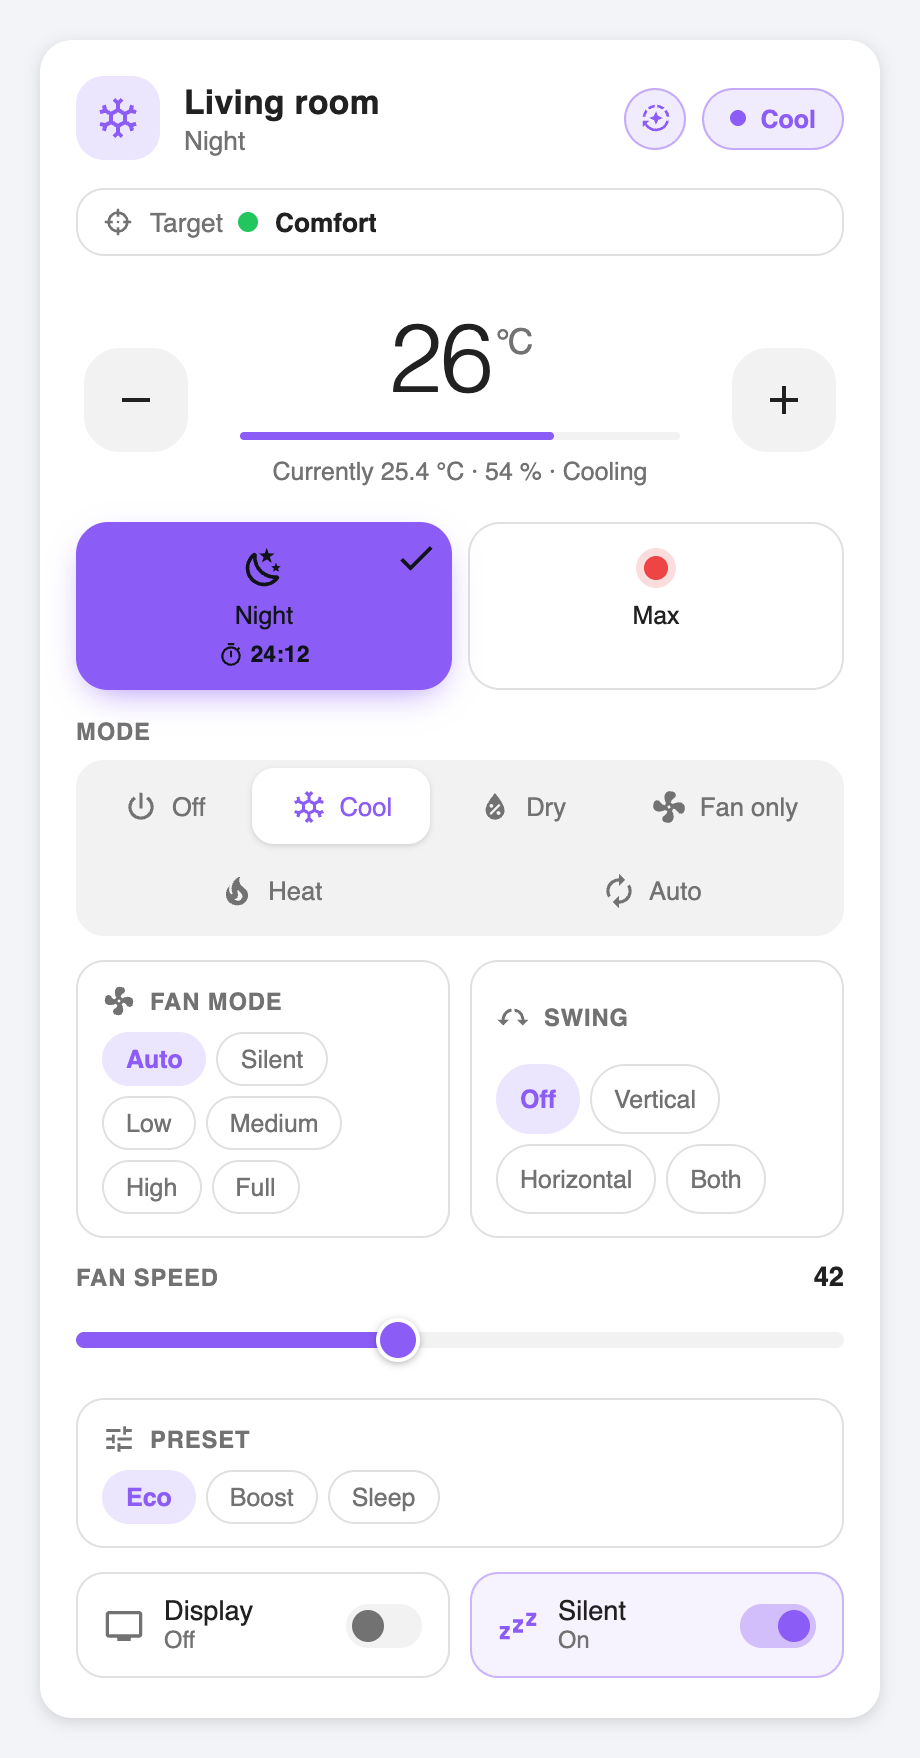
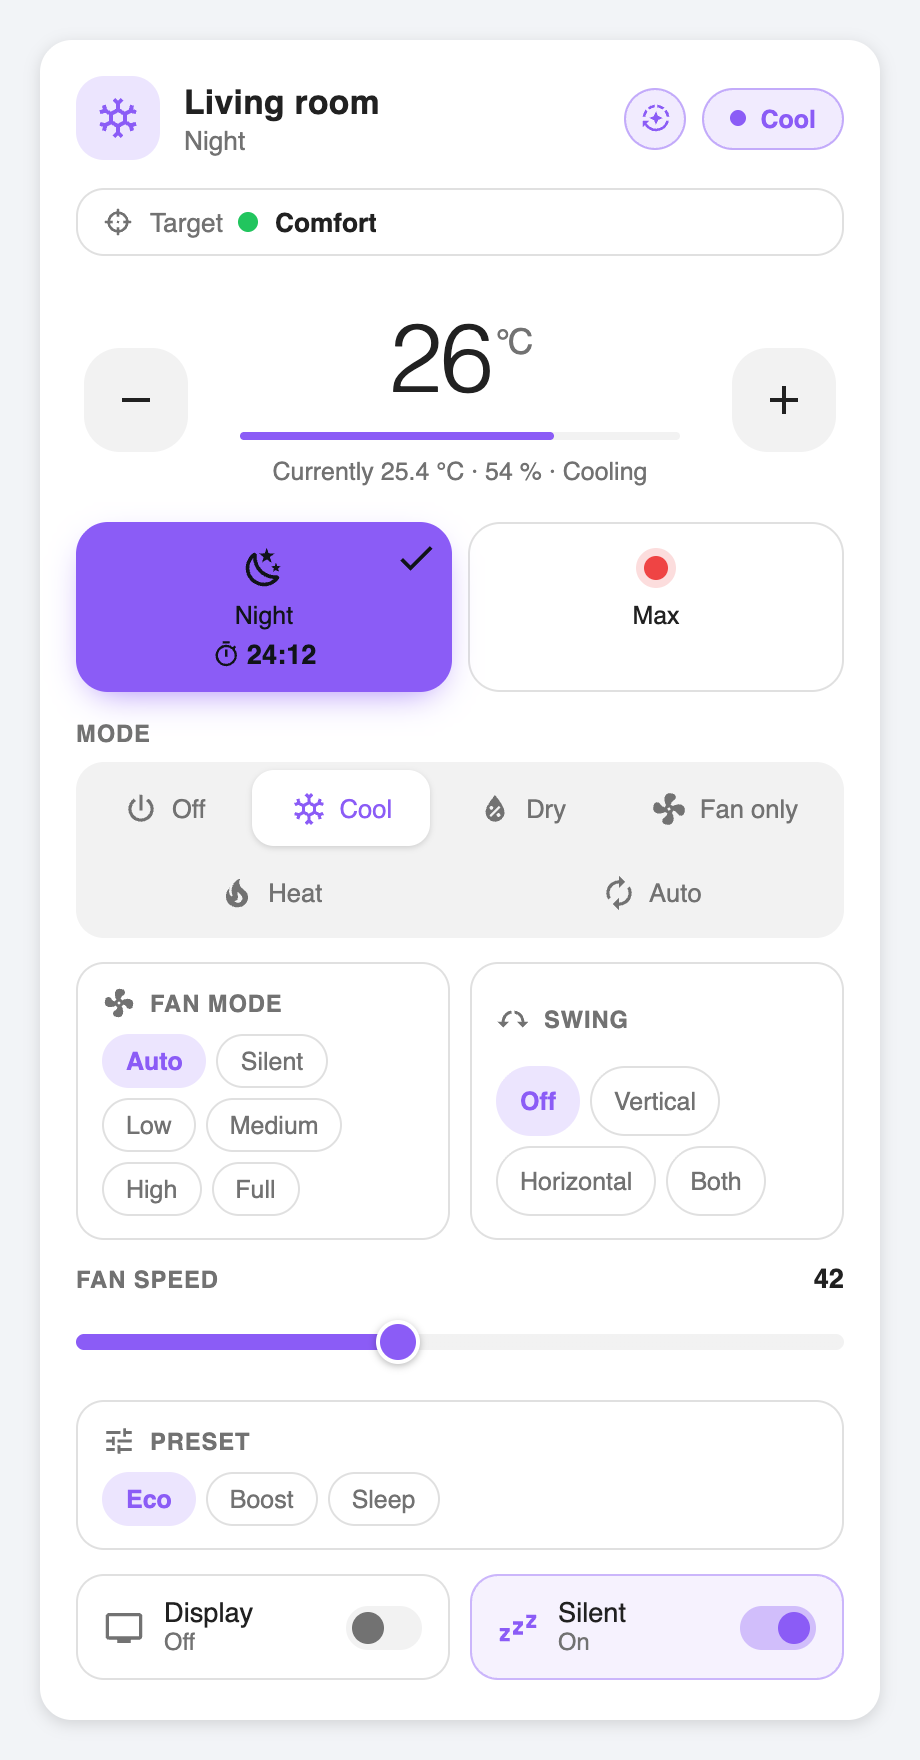
Hold a write protected profile under automatic mode
With automatic mode on, a change by hand to a write protected profile could only turn the state custom, which is what protection is there to prevent - and on a card that offers one button, the countdown was too small to read. set_value is now refused while automatic mode holds such a profile and the card turns display only, leaving temporary profiles, automatic mode and the lock as the ways out. The countdown is sized by the width of its own button.

diff --git a/custom_components/climate_profiles/frontend/climate-profile-card.js b/custom_components/climate_profiles/frontend/climate-profile-card.js
@@ -282,6 +282,17 @@ class ClimateProfileCard extends HTMLElement {
       automatic,
       autoOn: Boolean(automatic && automatic.status !== "off"),
       running,
+      // Automatic mode holds a write protected profile: nothing on the card
+      // may change it - the integration refuses it as well. Only temporary
+      // profiles, automatic mode itself and the lock stay usable.
+      frozen: Boolean(
+        automatic &&
+          automatic.status !== "off" &&
+          (attrs.profiles || []).some(
+            (profile) =>
+              profile.id === (attrs.active_profile_id || CUSTOM_ID) && profile.protected
+          )
+      ),
       applying: Boolean(attrs.applying) || this._busy > 0,
       hvacMode: climate ? climate.state : null,
       hvacModes: caps.hvac_modes || [],
@@ -1034,6 +1045,15 @@ class ClimateProfileCard extends HTMLElement {
       model.profiles.find((profile) => profile.id === model.activeId) || model.custom;
 
     el.card.classList.toggle("unavailable", model.unavailable);
+    el.card.classList.toggle("frozen", model.frozen);
+    // What cannot be changed right now: the device is away, or automatic
+    // mode holds a write protected profile.
+    const locked = model.unavailable || model.frozen;
+    const why = model.frozen
+      ? this._t("Write protected, and held by automatic mode.")
+      : "";
+    el.temp.title = why;
+    el.controls.title = why;
     el.card.style.setProperty("--accent-color", activeProfile.color);
     const [r, g, b] = hexToRgb(activeProfile.color);
     el.card.style.setProperty("--accent-rgb", `${r}, ${g}, ${b}`);
@@ -1058,7 +1078,7 @@ class ClimateProfileCard extends HTMLElement {
         )
       : this._t("Off");
     el.pill.title = on ? this._t("Turn off") : this._t("Turn on");
-    el.pill.disabled = model.unavailable || !model.hvacModes.includes("off");
+    el.pill.disabled = locked || !model.hvacModes.includes("off");
 
     // temperature
     const showTemp = this._visible("temperature", isNum(model.target));
@@ -1099,7 +1119,7 @@ class ClimateProfileCard extends HTMLElement {
         setReading(el.ringHumidity, humidity);
       }
       this.shadowRoot.querySelectorAll(".step").forEach((button) => {
-        button.disabled = model.unavailable;
+        button.disabled = locked;
       });
     }
 
@@ -1129,9 +1149,9 @@ class ClimateProfileCard extends HTMLElement {
     }
 
     // controls
-    this._paintGroup("hvac_mode", model.hvacMode, model.unavailable);
-    this._paintGroup("fan_mode", model.fanMode, model.unavailable || !on);
-    this._paintGroup("swing_mode", model.swingMode, model.unavailable || !on);
+    this._paintGroup("hvac_mode", model.hvacMode, locked);
+    this._paintGroup("fan_mode", model.fanMode, locked || !on);
+    this._paintGroup("swing_mode", model.swingMode, locked || !on);
 
     for (const value of model.additional) {
       const control = this._controls[value.id];
@@ -1140,7 +1160,7 @@ class ClimateProfileCard extends HTMLElement {
       if (control.kind === "slider") {
         const number = isNum(shown) ? shown : Number(control.input.min);
         if (document.activeElement !== control.input) control.input.value = number;
-        control.input.disabled = model.unavailable;
+        control.input.disabled = locked;
         control.block.querySelector(".slider-value").textContent = formatNumber(
           Number(control.input.value),
           Number(control.input.step)
@@ -1148,9 +1168,9 @@ class ClimateProfileCard extends HTMLElement {
         control.input.setAttribute("aria-valuetext", `${control.input.value}`);
         this._paintSliderFill(control.input);
       } else if (control.kind === "toggle") {
-        this._paintToggle(value.id, shown, model.unavailable);
+        this._paintToggle(value.id, shown, locked);
       } else {
-        this._paintGroup(value.id, shown, model.unavailable);
+        this._paintGroup(value.id, shown, locked);
       }
     }
 
@@ -1392,7 +1412,10 @@ class ClimateProfileCard extends HTMLElement {
     el.arc.setAttribute("aria-valuemax", String(max));
     el.arc.setAttribute("aria-valuenow", String(model.target));
     el.arc.setAttribute("aria-valuetext", `${model.target} ${model.unit}`);
-    el.arc.setAttribute("aria-disabled", model.unavailable ? "true" : "false");
+    el.arc.setAttribute(
+      "aria-disabled",
+      model.unavailable || model.frozen ? "true" : "false"
+    );
   }
 
   /* ---- actions ---- */
@@ -1400,7 +1423,9 @@ class ClimateProfileCard extends HTMLElement {
   /** Where on the ring the pointer is, as a temperature. */
   _dialTo(event) {
     const model = this._model();
-    if (model.error || model.unavailable || !isNum(model.target)) return;
+    if (model.error || model.unavailable || model.frozen || !isNum(model.target)) {
+      return;
+    }
 
     const box = this._el.arc.getBoundingClientRect();
     const dx = event.clientX - (box.left + box.width / 2);
@@ -1428,7 +1453,7 @@ class ClimateProfileCard extends HTMLElement {
 
   _nudgeTemperature(direction) {
     const model = this._model();
-    if (model.error || !isNum(model.target)) return;
+    if (model.error || model.frozen || !isNum(model.target)) return;
     const step = isNum(model.caps.target_temp_step) ? model.caps.target_temp_step : 0.5;
     const min = isNum(model.caps.min_temp) ? model.caps.min_temp : 5;
     const max = isNum(model.caps.max_temp) ? model.caps.max_temp : 35;
@@ -1453,7 +1478,7 @@ class ClimateProfileCard extends HTMLElement {
 
   _togglePower() {
     const model = this._model();
-    if (model.error) return;
+    if (model.error || model.frozen) return;
     const off = model.hvacModes.includes("off") ? "off" : null;
     if (!off) return;
     if (model.hvacMode === "off") {
@@ -1503,6 +1528,8 @@ class ClimateProfileCard extends HTMLElement {
   }
 
   async _setValue(values) {
+    // Every control ends here; the disabled buttons are only what is seen.
+    if (this._model().frozen) return;
     for (const [key, value] of Object.entries(values)) {
       this._setPending(key, value);
     }
@@ -1636,6 +1663,8 @@ const CARD_DE = {
   Target: "Ziel",
   "Sensor unavailable": "Sensor nicht verfügbar",
   "Tap to end": "Tippen beendet",
+  "Write protected, and held by automatic mode.":
+    "Schreibgeschützt, und von der Automatik gehalten.",
 };
 
 /* -------------------------------------------------------------------------
@@ -2044,7 +2073,6 @@ ha-card.unavailable { opacity: 0.6; }
 .profile.icon-only .dot-mark { width: 14px; height: 14px; margin: 5px 0; }
 /* The time left sits below the icon, or beside it once the button is wide
    enough - measured on the button, not the screen. */
-.profile.icon-only { container-type: inline-size; }
 .icon-stack {
   display: flex;
   flex-direction: column;
@@ -2088,7 +2116,7 @@ ha-card.unavailable { opacity: 0.6; }
   gap: 4px;
   flex: none;
   color: var(--profile-color, var(--accent-color));
-  font-size: 0.85rem;
+  font-size: 0.95rem;
   font-weight: 600;
   font-variant-numeric: tabular-nums;
 }
@@ -2255,15 +2283,18 @@ ha-card.unavailable { opacity: 0.6; }
 
 /* the time a temporary profile has left */
 .profile-countdown[hidden] { display: none; }
+/* Every button measures itself, so the time left grows with the room it has:
+   small in a row of six, as large as the name allows on a button of its own. */
+.profile { container-type: inline-size; }
 .profile-countdown {
   display: inline-flex;
   align-items: center;
-  gap: 3px;
-  font-size: 0.72rem;
+  gap: 0.25em;
+  font-size: clamp(0.85rem, 8cqi, 1.3rem);
   font-weight: 600;
   font-variant-numeric: tabular-nums;
 }
-.profile .profile-countdown ha-icon { --mdc-icon-size: 13px; color: inherit; }
+.profile .profile-countdown ha-icon { --mdc-icon-size: 1.05em; color: inherit; }
 
 /* notices */
 /* A flex container, and "display" beats the "hidden" attribute. */
@@ -2473,6 +2504,7 @@ ha-card.unavailable { opacity: 0.6; }
 
 /* shared states */
 button:disabled { opacity: 0.45; cursor: not-allowed; }
+.slider:disabled { opacity: 0.45; cursor: not-allowed; }
 button:focus-visible,
 .slider:focus-visible {
   outline: 2px solid var(--accent-color);

diff --git a/tests/test_automatic.py b/tests/test_automatic.py
@@ -15,7 +15,7 @@ from custom_components.climate_profiles.const import (
 )
 
 from .conftest import open_step, set_device_state, settle
-from .test_integration import SELECT, SENSOR, setup_entry
+from .test_integration import PROFILES, SELECT, SENSOR, setup_entry
 
 PROFILE_SENSOR = "sensor.wanted_profile"
 SWITCH = "switch.living_room_automatic_mode"
@@ -341,3 +341,45 @@ async def test_the_options_set_and_clear_the_sensor(hass, entry_data):
     await settle(hass)
     assert CONF_PROFILE_SENSOR not in entry.options
     assert hass.states.get(SWITCH) is None
+
+
+# --- a write protected profile under automatic mode -------------------------
+
+
+async def test_a_protected_profile_held_by_it_cannot_be_changed(
+    hass, entry_data, calls
+):
+    """A change could only make it custom - which protection is there to stop."""
+    profiles = [dict(item) for item in PROFILES]
+    profiles[2] = {**profiles[2], "protected": True}
+    hass.states.async_set(PROFILE_SENSOR, "Kuehlung")
+    set_device_state(hass, temperature=22)
+    entry = await setup_entry(
+        hass,
+        entry_data,
+        profiles=profiles,
+        options={CONF_PROFILE_SENSOR: PROFILE_SENSOR},
+    )
+    await switch_on(hass, entry)
+    count = len(calls["set_temperature"])
+
+    with pytest.raises(ServiceValidationError) as err:
+        await hass.services.async_call(
+            DOMAIN,
+            "set_value",
+            {"entity_id": SENSOR, "temperature": 21},
+            blocking=True,
+        )
+    assert err.value.translation_key == "automatic_profile_protected"
+    assert len(calls["set_temperature"]) == count
+
+    # Off, it is a protected profile like any other: the change goes through
+    # and the state is custom.
+    await entry.runtime_data.async_set_automatic(False)
+    await hass.services.async_call(
+        DOMAIN,
+        "set_value",
+        {"entity_id": SENSOR, "temperature": 21},
+        blocking=True,
+    )
+    assert calls["set_temperature"][-1].data["temperature"] == 21

diff --git a/tests/test_card.py b/tests/test_card.py
@@ -930,3 +930,45 @@ async def test_the_editor_offers_automatic_mode(open_card):
         }"""
     )
     assert data["show_target"] is True, "on unless switched off"
+
+
+#: Automatic mode holds "Comfort+", which is write protected.
+FROZEN = {
+    "temperature": 22,
+    "active_profile": "Comfort+",
+    "active_profile_id": "p4",
+    "active_profile_color": "#10b981",
+    "automatic": {
+        **AUTOMATIC["automatic"],
+        "sensor_state": "Comfort+",
+        "target": "Comfort+",
+        "target_id": "p4",
+    },
+}
+
+
+async def test_a_protected_profile_held_by_automatic_mode_is_display_only(
+    open_card,
+):
+    page = await open_card(FROZEN, card={"show_protection": True})
+    card = page.locator("climate-profile-card")
+
+    for selector in (".step", ".pill", ".segmented button", ".slider", ".toggle"):
+        for control in await card.locator(selector).all():
+            assert await control.is_disabled(), selector
+    await card.locator(".step[data-step='up']").click(force=True)
+    await card.locator(".segmented button").first.click(force=True)
+    await page.wait_for_timeout(800)
+    assert await calls(page) == []
+
+    # What stays: starting a temporary profile, automatic mode, the lock.
+    assert await card.locator(".profile[data-id='p5']").is_enabled()
+    assert await card.locator(".lock").is_enabled()
+
+
+async def test_an_unprotected_profile_held_by_automatic_mode_can_be_changed(
+    open_card,
+):
+    page = await open_card(AUTOMATIC)
+    card = page.locator("climate-profile-card")
+    assert await card.locator(".step[data-step='up']").is_enabled()

diff --git a/custom_components/climate_profiles/coordinator.py b/custom_components/climate_profiles/coordinator.py
@@ -784,6 +784,17 @@ class ClimateProfilesCoordinator(DataUpdateCoordinator[ProfileState]):
         """Write individual values, then re-evaluate which profile that is."""
         if not values:
             return
+        active = self.data.active if self.data else None
+        if self._automatic and active is not None and active.protected:
+            # Automatic mode holds a profile that keeps changes out. A change
+            # here could only make the state custom, which is the one thing
+            # write protection under automatic mode is meant to prevent. The
+            # device's own buttons cannot be refused; they still lead there.
+            raise ServiceValidationError(
+                translation_domain=DOMAIN,
+                translation_key="automatic_profile_protected",
+                translation_placeholders={"profile": active.name},
+            )
         # Changing something by hand ends the question whether the profile
         # applied before took: from here on the state is yours, not the
         # device's answer. A change made on the device itself cannot be told

diff --git a/README.md b/README.md
@@ -280,7 +280,8 @@ temporary profile shows the time it has left: under its name in the grid and
 scroll layouts, next to the icon in `icons` - below it when the button is
 narrow - and in the closed field in `dropdown`. A tap on it ends it; in
 `dropdown` the tap ends it instead of opening the list. Starting another one
-replaces it.
+replaces it. The time left grows with the button: small in a row of six,
+large on a button of its own.
 
 ![Automatic mode with a temporary profile running](docs/images/card-automatic.png)
 
@@ -449,7 +450,11 @@ While the switch is on:
   `set_value` and the device's own buttons still work: changing the device is
   not choosing a profile.
 - **A change made by hand goes into the profile, as always** - unless it is
-  write protected; see [Changes made by hand](#changes-made-by-hand).
+  write protected; see [Changes made by hand](#changes-made-by-hand). A
+  write protected profile that automatic mode holds cannot be changed at all:
+  `set_value` is refused, and the card is display only, apart from temporary
+  profiles, the automatic mode button and the lock. Only the device's own
+  buttons still get through, and lead to custom.
 - **No profile, no write.** A sensor that is unavailable, or names no profile,
   makes automatic mode wait: the device keeps what it has, the switch stays
   on, and the sensor's `automatic` attribute says why. Once the sensor names a

diff --git a/CHANGELOG.md b/CHANGELOG.md
@@ -41,7 +41,12 @@ versioning [Semantic Versioning](https://semver.org/).
   on, only temporary profiles are offered, and whatever else is active is
   shown without being pickable. A running temporary profile counts down in
   its button - under the name, beside or below the icon, in the closed
-  dropdown - and a tap ends it.
+  dropdown - and a tap ends it. The time grows with the room the button has.
+- **A write protected profile held by automatic mode cannot be changed.**
+  `set_value` is refused, and the card turns display only - temperature,
+  mode, power and every other control - so the state cannot slip to custom.
+  Temporary profiles, the automatic mode button and the lock stay usable; the
+  device's own buttons cannot be stopped.
 
 ### Changed
 
